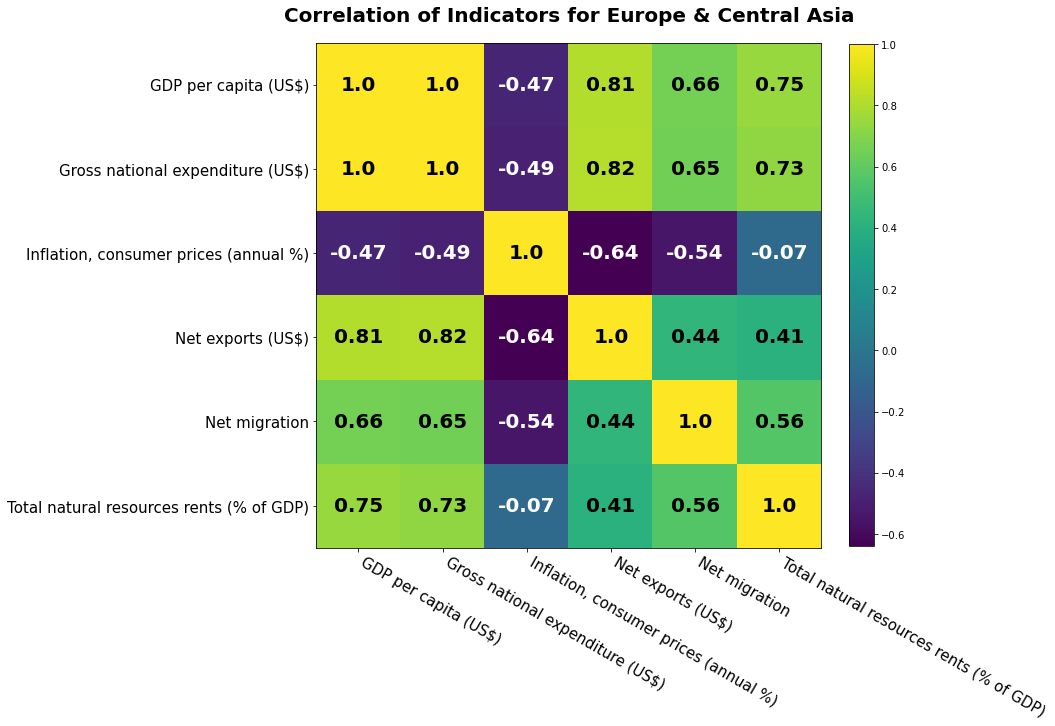
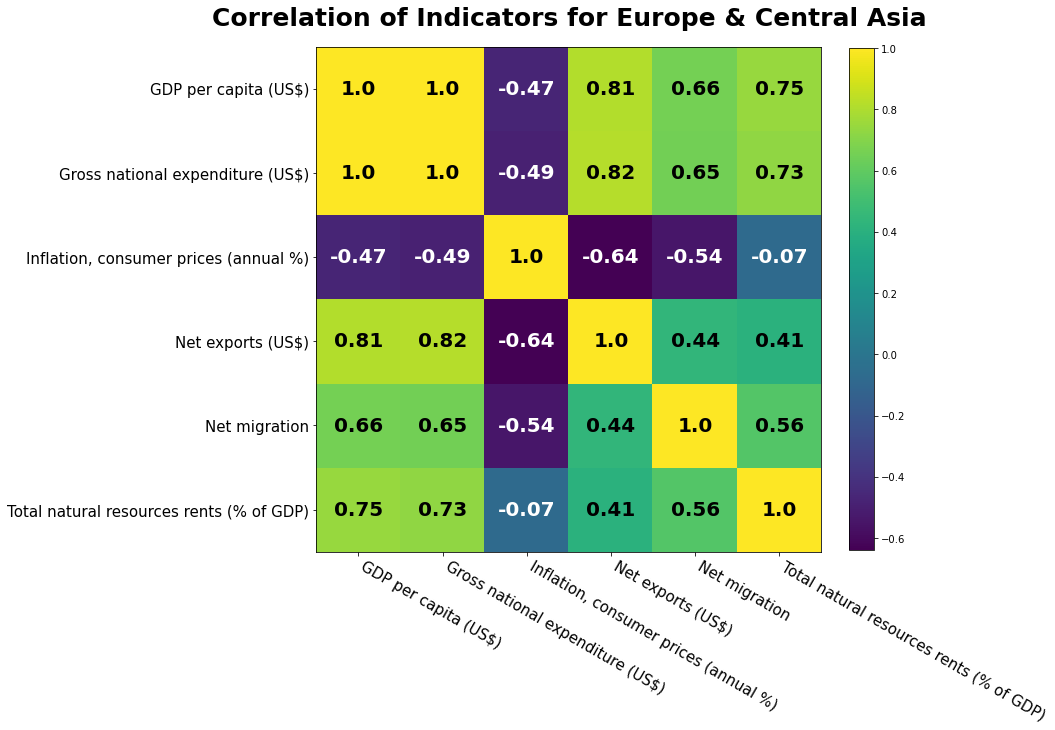
Use consistent quotation marks and increase the font of heatmaps titles

diff --git a/main.py b/main.py
@@ -40,7 +40,7 @@ def clean_data(data):
                .split(" [")[0] for col_name in list(cleaned_data.columns)]
     cleaned_data.columns = columns
 
-    cleaned_data.replace('..', np.nan, inplace=True)
+    cleaned_data.replace("..", np.nan, inplace=True)
 
     # Set the region and series name as index, leaving years as the columns
     cleaned_data = cleaned_data.set_index(
@@ -54,7 +54,7 @@ def clean_data(data):
 
     # Rename index like "Sample (current US$)" to "Sample (US$)"
     cleaned_data.rename(lambda x: x.replace(
-        "current ", ""), axis='index', inplace=True)
+        "current ", ""), axis="index", inplace=True)
 
     # Ensure that the values are currently represented as floats
     cleaned_data = cleaned_data.astype("float64")
@@ -95,7 +95,7 @@ def get_dataframes(filename):
                                axis=1, level="Series Name")
     net_exports = exports - imports
     net_exports.columns = pd.MultiIndex.from_product(
-        [net_exports.columns, ['Net exports (US$)']],
+        [net_exports.columns, ["Net exports (US$)"]],
         names=["Region", "Series Name"])
 
     # Add the new Net exports column to the transposed dataframe and
@@ -155,25 +155,25 @@ def extract_statistics(description_df, skew_kurtosis_df):
     # highlight the min and max mean of each indicators, and add background
     # color to the colum and row headers
     summary_stats_df = summary_stats_df.style.format("{:,.2f}") \
-        .set_properties(**{'border': '1px solid black'}) \
+        .set_properties(**{"border": "1px solid black"}) \
         .set_caption("Summary Statistics of Indicators Over the Years") \
-        .highlight_max(color='lightgreen', subset=idx[:, idx[:, "mean"]]) \
-        .highlight_min(color='cyan', subset=idx[:, idx[:, "mean"]]) \
+        .highlight_max(color="lightgreen", subset=idx[:, idx[:, "mean"]]) \
+        .highlight_min(color="cyan", subset=idx[:, idx[:, "mean"]]) \
         .apply_index(lambda v: header_styles * len(v)) \
         .apply_index(lambda v: header_styles * len(v), axis="columns") \
         .set_table_styles([
-            {'selector': 'caption',
-             'props': [
-                 ('font-size', '20px'),
-                 ('font-weight', 'bold'),
-                 ('padding-bottom', '20px'),
+            {"selector": "caption",
+             "props": [
+                 ("font-size", "20px"),
+                 ("font-weight", "bold"),
+                 ("padding-bottom", "20px"),
              ]
              }
         ])
 
     # Save the extracted statistics to an excel file
     summary_stats_df.to_excel(
-        'plots/summary_statistics.xlsx', engine='openpyxl')
+        "plots/summary_statistics.xlsx", engine="openpyxl")
 
     return
 
@@ -222,7 +222,7 @@ def plot_boxplot(df, title, ylabel):
               loc="lower center", ncol=1, fontsize=12)
     ax.legend_.set_bbox_to_anchor([0.8, 0.75])
 
-    plt.savefig("plots/box_plot.svg", bbox_inches='tight')
+    plt.savefig("plots/box_plot.svg", bbox_inches="tight")
 
     plt.show()
 
@@ -251,14 +251,14 @@ def plot_heatmap(corr, region_name):
     im = ax.imshow(corr, interpolation="nearest")
 
     # Add a colorbar to the plot
-    fig.colorbar(im, orientation='vertical', fraction=0.045)
+    fig.colorbar(im, orientation="vertical", fraction=0.045)
 
     columns_length = len(corr.columns)
 
     # Set the plot title
     ax.set_title(
         f"Correlation of Indicators for {region_name}",
-        fontweight="bold", fontsize=20, y=1.03)
+        fontweight="bold", fontsize=30, y=1.03)
 
     # Show all ticks and label them with the column name
     ax.set_xticks(np.arange(columns_length), labels=corr.columns, fontsize=15)
@@ -280,7 +280,7 @@ def plot_heatmap(corr, region_name):
             ax.text(j, i, corr.to_numpy()[i, j], ha="center", va="center",
                     color=color, fontsize=20, fontweight="bold")
 
-    plt.savefig(f"plots/{region_name} heatmap.png", bbox_inches='tight')
+    plt.savefig(f"plots/{region_name} heatmap.png", bbox_inches="tight")
 
     plt.show()
 
@@ -308,7 +308,7 @@ def plot_line_graphs(df, columns, title, xlabel):
 
     """
 
-    fig, axes = plt.subplots(2, 3, figsize=(20, 12), layout='constrained')
+    fig, axes = plt.subplots(2, 3, figsize=(20, 12), layout="constrained")
 
     fig.suptitle(title, fontsize=30, fontweight="bold", y=1.10)
 
@@ -338,10 +338,10 @@ def plot_line_graphs(df, columns, title, xlabel):
 
     # Display one legend for all the subplots
     handles, labels = fig.axes[0].get_legend_handles_labels()
-    fig.legend(handles, labels, loc='upper center', ncols=3, fontsize=18,
+    fig.legend(handles, labels, loc="upper center", ncols=3, fontsize=18,
                bbox_to_anchor=[0.5, 1.07])
 
-    plt.savefig("plots/line_plot.png", bbox_inches='tight')
+    plt.savefig("plots/line_plot.png", bbox_inches="tight")
 
     plt.show()
 
